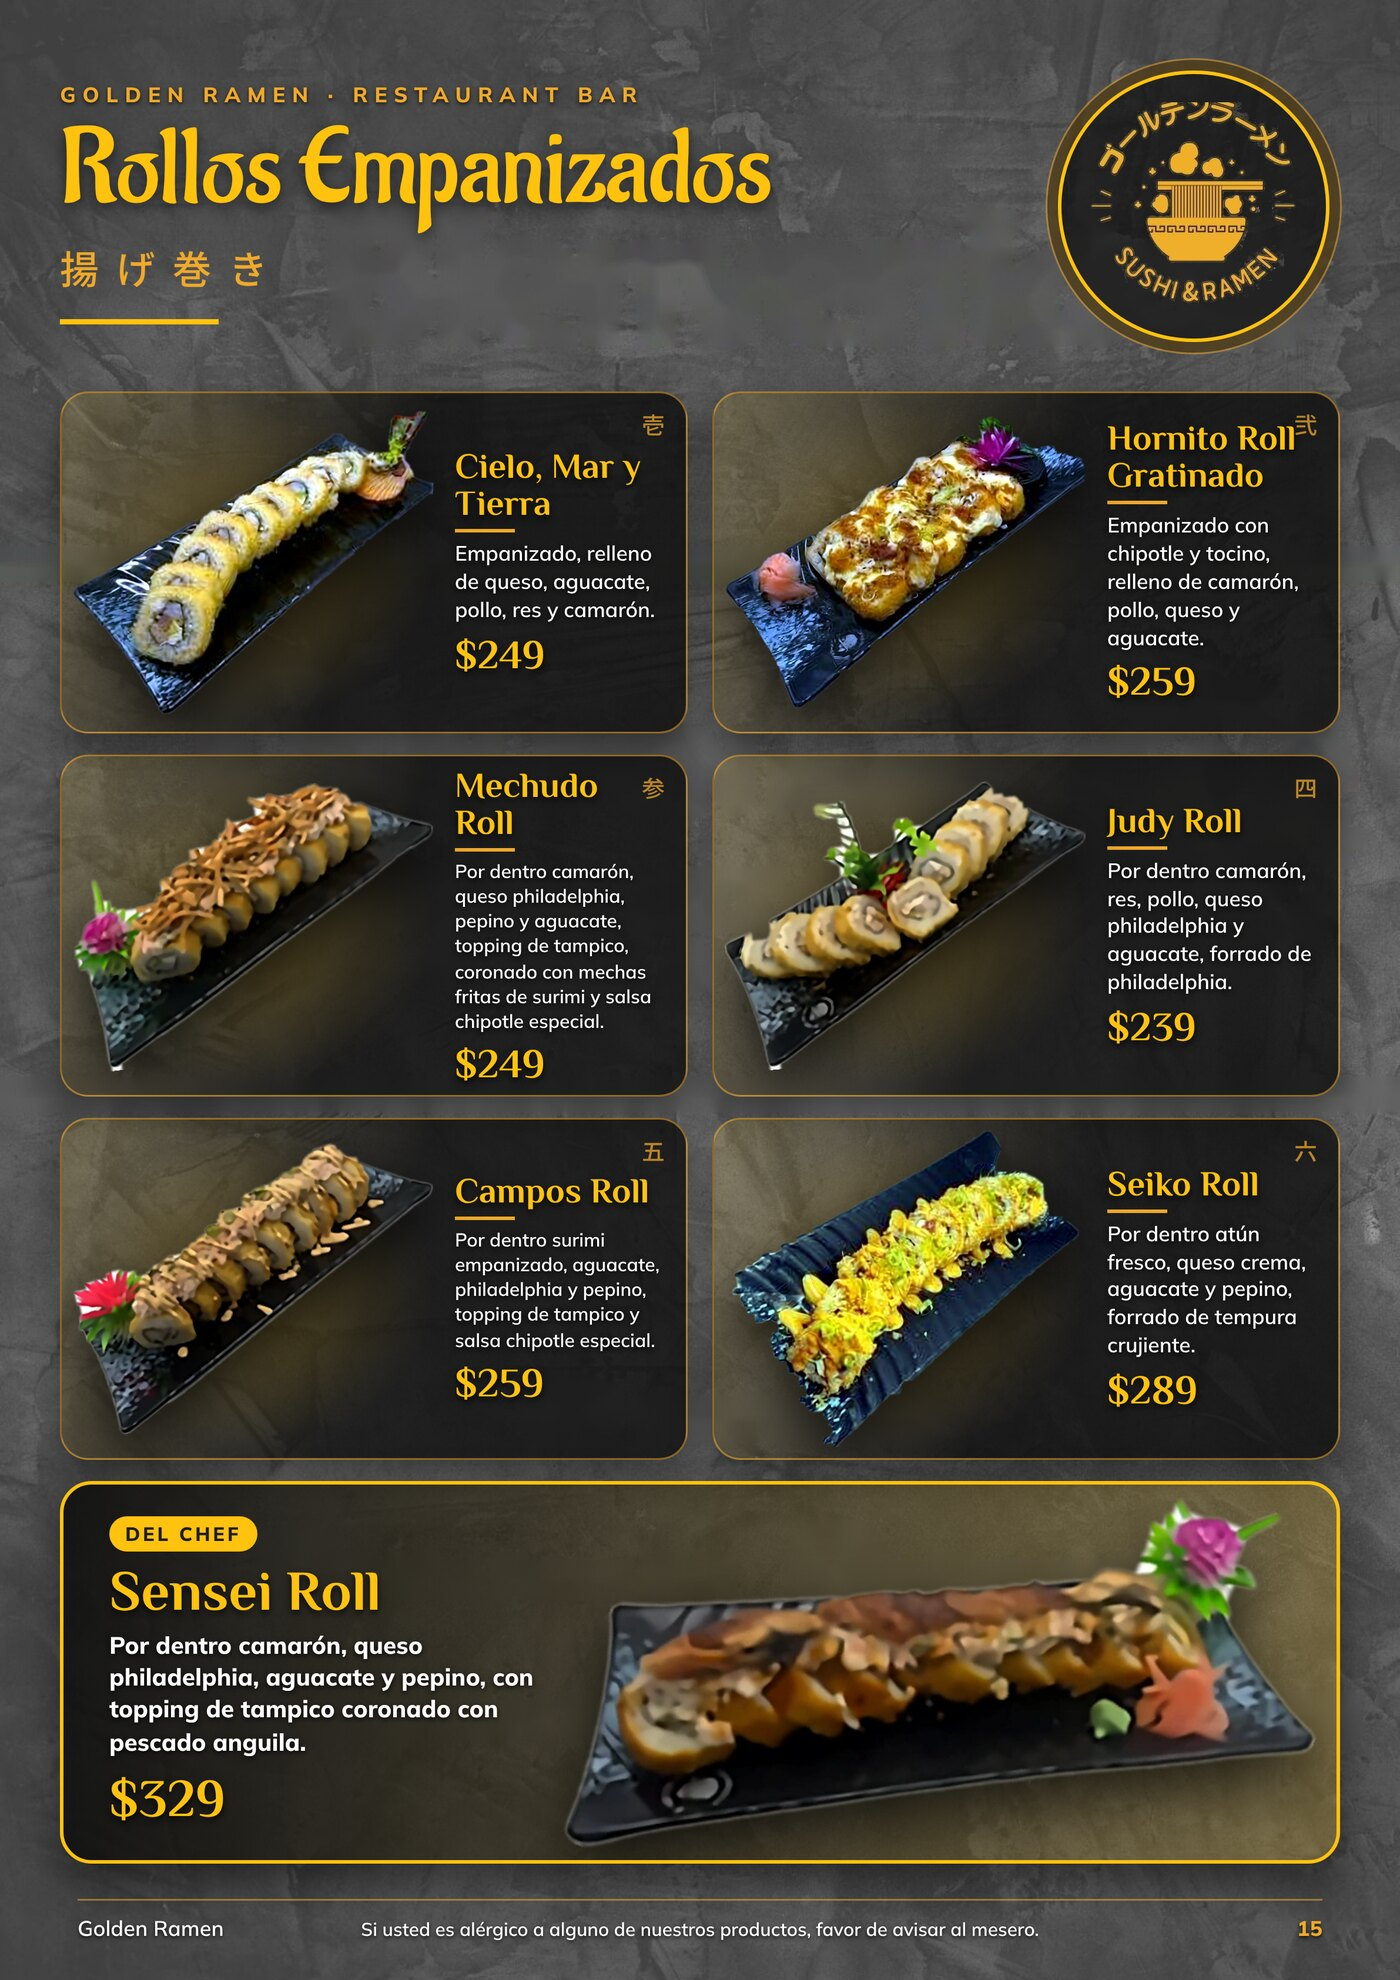
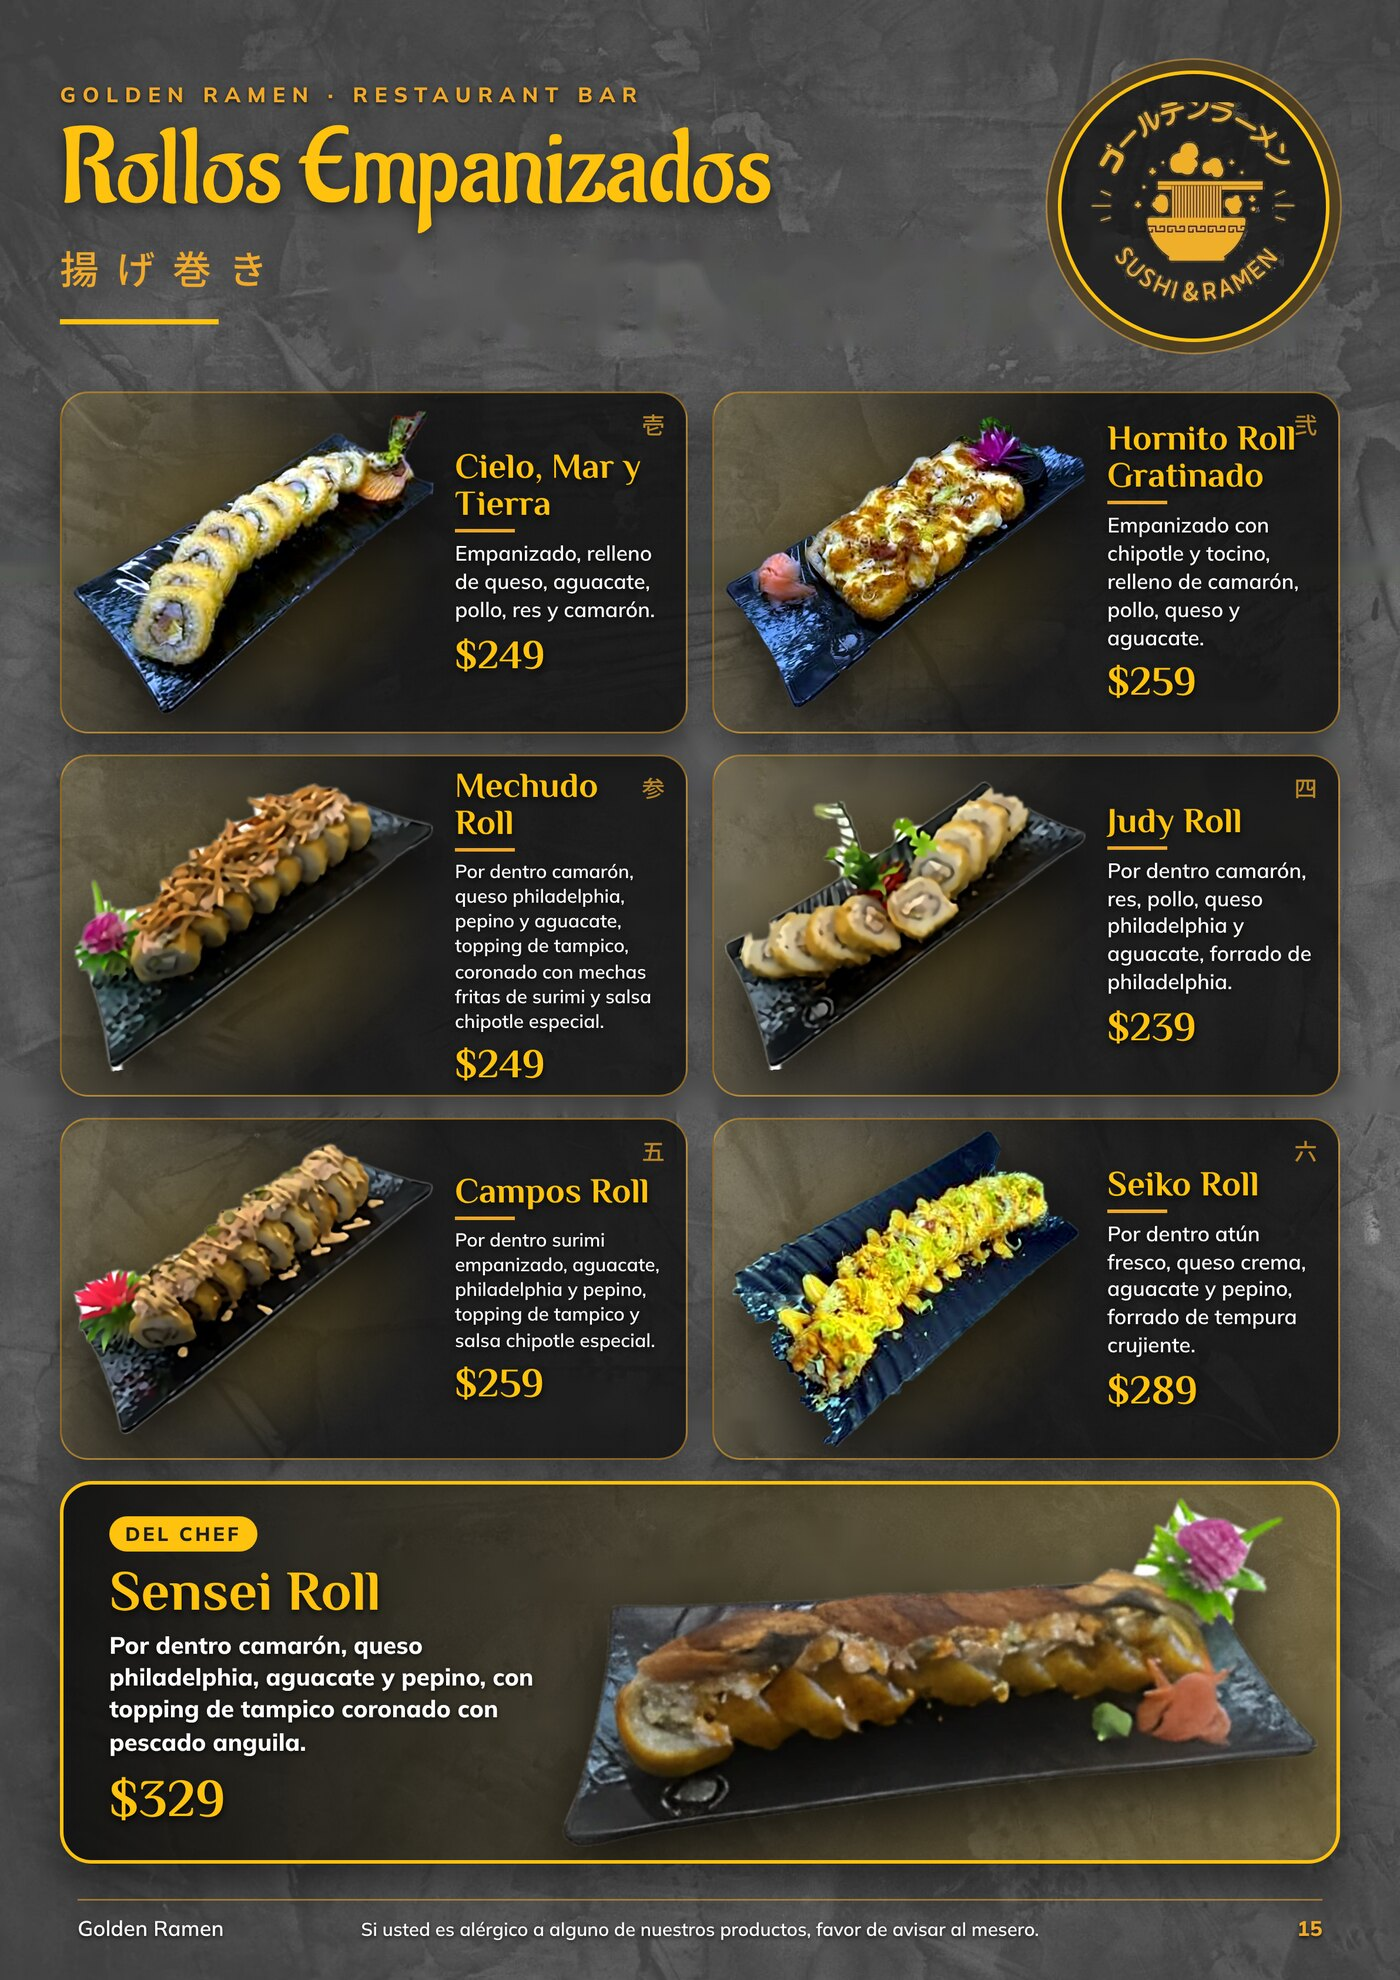
Sensei Roll en alta calidad
Claude-Session: https://claude.ai/code/session_019koabpyAAMnZPtrZYFtJVk

Changed region(s): [[0.3993, 0.7394, 0.9521, 0.9551]]

diff --git a/index.html b/index.html
@@ -53,10 +53,10 @@ for(let i=1;i<=N;i++){
   const d=document.createElement('div');
   d.className='page'+((i===1||i===N)?' hard':'');
   if(i===1||i===N) d.setAttribute('data-density','hard');
-  d.innerHTML=`<img src="p${pad(i)}.jpg?v=1794817323" alt="Página ${i} del menú Golden Ramen" ${i>4?'loading="lazy"':''}>`;
+  d.innerHTML=`<img src="p${pad(i)}.jpg?v=1794817712" alt="Página ${i} del menú Golden Ramen" ${i>4?'loading="lazy"':''}>`;
   book.appendChild(d);
   const t=document.createElement('button'); t.className='th'; t.setAttribute('aria-label','Ir a la página '+i);
-  t.innerHTML=`<img src="t${pad(i)}.jpg?v=1794817323" alt="">`; t.onclick=()=>pf&&pf.flip(i-1);
+  t.innerHTML=`<img src="t${pad(i)}.jpg?v=1794817712" alt="">`; t.onclick=()=>pf&&pf.flip(i-1);
   thumbs.appendChild(t);
 }
 let pf=null; let lastW=innerWidth; addEventListener('resize',()=>{ if(Math.abs(innerWidth-lastW)>80){ location.reload(); } });
